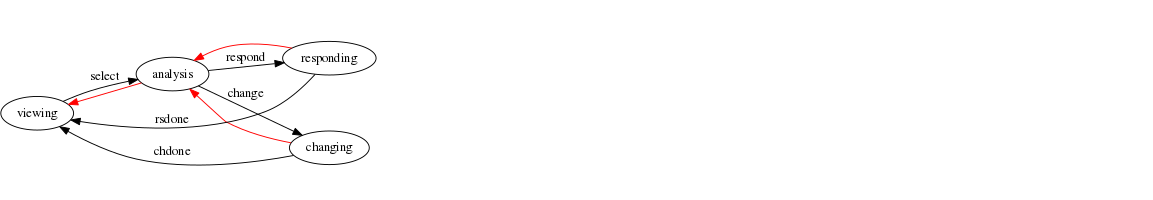
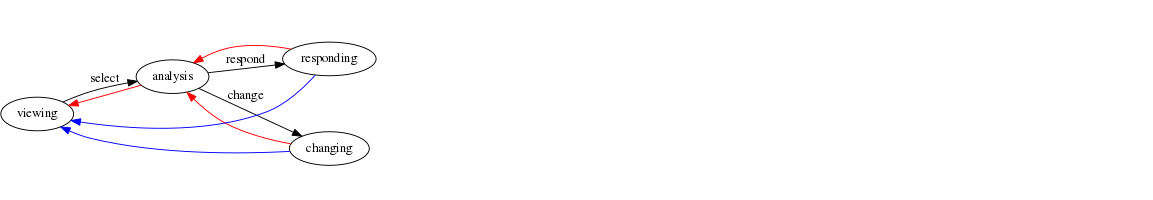
send respond with resume

diff --git a/www/prj/hh.html b/www/prj/hh.html
@@ -4332,12 +4332,6 @@ _xsrf=b2dccfd0ce2ff68b2c4f795ac6d549fb
 </tr>
 
 <tr>
-<td class="left">chdone</td>
-<td class="left">changing</td>
-<td class="left">viewing</td>
-</tr>
-
-<tr>
 <td class="left">respond</td>
 <td class="left">analysis</td>
 <td class="left">responding</td>
@@ -4350,8 +4344,14 @@ _xsrf=b2dccfd0ce2ff68b2c4f795ac6d549fb
 </tr>
 
 <tr>
-<td class="left">rsdone</td>
+<td class="left">done</td>
 <td class="left">responding</td>
+<td class="left">viewing</td>
+</tr>
+
+<tr>
+<td class="left">done</td>
+<td class="left">changing</td>
 <td class="left">viewing</td>
 </tr>
 </tbody>
@@ -4364,11 +4364,15 @@ _xsrf=b2dccfd0ce2ff68b2c4f795ac6d549fb
 <div class="org-src-container">
 
 <pre class="src src-emacs-lisp" id="iface_state_graph">(mapcar #'(lambda (x)
-            (<span style="color: #af00ff;">if</span> (equal (first x) <span style="color: #87005f;">"back"</span>)
-                (princ (format <span style="color: #87005f;">"%s -&gt; %s [label =\"%s\", color=\"red\"];\n"</span>
-                               (second x) (third x) <span style="color: #87005f;">""</span>))
-              (princ (format <span style="color: #87005f;">"%s -&gt; %s [label =\"%s\" ];\n"</span>
-                             (second x) (third x) (first x)))))
+            (<span style="color: #af00ff;">cond</span> ((equal (first x) <span style="color: #87005f;">"back"</span>)
+                   (princ (format <span style="color: #87005f;">"%s -&gt; %s [label =\"%s\", color=\"red\"];\n"</span>
+                                  (second x) (third x) <span style="color: #87005f;">""</span>)))
+                  ((equal (first x) <span style="color: #87005f;">"done"</span>)
+                   (princ (format <span style="color: #87005f;">"%s -&gt; %s [label =\"%s\", color=\"blue\"];\n"</span>
+                                  (second x) (third x) <span style="color: #87005f;">""</span>)))
+                  (t
+                   (princ (format <span style="color: #87005f;">"%s -&gt; %s [label =\"%s\" ];\n"</span>
+                                  (second x) (third x) (first x))))))
         table)
 </pre>
 </div>
@@ -4422,6 +4426,7 @@ _xsrf=b2dccfd0ce2ff68b2c4f795ac6d549fb
 (<span style="color: #af00ff;">defun</span> <span style="color: #0000ff;">viewing</span> ()
   (<span style="color: #af00ff;">tagbody</span>
    renew
+     (format t <span style="color: #87005f;">"________"</span>)
      (format t <span style="color: #87005f;">"~%Viewing:"</span>)
      (format t <span style="color: #87005f;">"~%[0] : Exit"</span>)
      (<span style="color: #af00ff;">let</span> ((acts (show-ten-vacs *W*)))
@@ -4469,6 +4474,7 @@ _xsrf=b2dccfd0ce2ff68b2c4f795ac6d549fb
                         (equal src-id
                                (getf (getf vac <span style="color: #5f5f87;">:vac</span>) <span style="color: #5f5f87;">:src-id</span>)))
                       *w*)))
+    (format t <span style="color: #87005f;">"__________________"</span>)
     (format t <span style="color: #87005f;">"~%ANALYSIS for vac # ~A~%~A"</span> src-id (bprint vac))
     (format t <span style="color: #87005f;">"~%Actions:~%[0] - Back to viewing~%[1] - Change domain~%[2] - Respond"</span>)
     (format t <span style="color: #87005f;">"~%Type your choise (0-2): "</span>)
@@ -4506,6 +4512,7 @@ _xsrf=b2dccfd0ce2ff68b2c4f795ac6d549fb
                         (equal src-id
                                (getf (getf vac <span style="color: #5f5f87;">:vac</span>) <span style="color: #5f5f87;">:src-id</span>)))
                       *w*)))
+    (format t <span style="color: #87005f;">"_________________________"</span>)
     (format t <span style="color: #87005f;">"~%CHANGING DOMAIN for vac # ~A~%~A"</span> src-id (bprint vac))
     (<span style="color: #af00ff;">let</span> ((dms (<span style="color: #af00ff;">let</span> ((acc 0))
                  (mapcar (<span style="color: #af00ff;">lambda</span> (x)
@@ -4535,8 +4542,6 @@ _xsrf=b2dccfd0ce2ff68b2c4f795ac6d549fb
                     (read-line)
                     (<span style="color: #af00ff;">return-from</span> changing 'done)))
                  (t (err <span style="color: #87005f;">"changing select action err"</span>))))))))
-
-<span style="color: #af0000;">;; </span><span style="color: #af0000;">(viewing)</span>
 </pre>
 </div>
 </div>
@@ -4560,6 +4565,42 @@ selectedResume=
 </pre>
 
 <p>
+Мы можем сделать это следующим функцией, которой нужно
+</p>
+<ul class="org-ul">
+<li>видеть динамическую переменную cookie-jar для обработки cookies
+</li>
+<li>передать функцию-продолжение для обработки ответа
+</li>
+</ul>
+
+<div class="org-src-container">
+
+<pre class="src src-lisp">(<span style="color: #af00ff;">defun</span> <span style="color: #0000ff;">get-resp-popup</span> (src-account src-id response-processor-fn)
+  (<span style="color: #af00ff;">let</span> ((referer    (format nil <span style="color: #87005f;">"https://spb.hh.ru/vacancy/~A"</span> src-id))
+        (popup-url  <span style="color: #87005f;">"https://spb.hh.ru/applicant/vacancy_response/popup?"</span>)
+        (get-params <span style="color: #87005f;">"vacancyId=~A&amp;autoOpen=no&amp;isTest=no&amp;withoutTest=no&amp;selectedResume="</span>))
+    (hh-get-page
+     referer cookie-jar src-account <span style="color: #87005f;">"https://spb.hh.ru"</span> #'stderr
+     (<span style="color: #af00ff;">lambda</span> (response new-cookie-jar url)
+       (setf cookie-jar new-cookie-jar)
+       (hh-get-page
+        (format nil (concatenate 'string popup-url get-params) src-id)
+        cookie-jar src-account referer #'stderr response-processor-fn)))))
+
+<span style="color: #af0000;">;; </span><span style="color: #af0000;">(let ((cookie-jar (make-instance 'drakma:cookie-jar))</span>
+<span style="color: #af0000;">;;       </span><span style="color: #af0000;">(src-id     24700517))</span>
+<span style="color: #af0000;">;;   </span><span style="color: #af0000;">(declare (special cookie-jar))</span>
+<span style="color: #af0000;">;;   </span><span style="color: #af0000;">(print</span>
+<span style="color: #af0000;">;;    </span><span style="color: #af0000;">(get-resp-popup</span>
+<span style="color: #af0000;">;;     </span><span style="color: #af0000;">*hh-account* src-id</span>
+<span style="color: #af0000;">;;     </span><span style="color: #af0000;">(lambda (response new-cookie-jar url)</span>
+<span style="color: #af0000;">;;       </span><span style="color: #af0000;">(setf cookie-jar new-cookie-jar)</span>
+<span style="color: #af0000;">;;       </span><span style="color: #af0000;">(print response)))))</span>
+</pre>
+</div>
+
+<p>
 Ответом на этот запрос приходит форма:
 </p>
 
@@ -4569,7 +4610,7 @@ selectedResume=
       <span style="color: #af5f00;">class</span>=<span style="color: #87005f;">"vacancy-response-popup HH-VacancyResponsePopup-Form HH-SubmitDisabler-Form"</span>&gt;
     &lt;<span style="color: #0000ff;">div</span> <span style="color: #af5f00;">class</span>=<span style="color: #87005f;">"bloko-modal-header bloko-modal-header_outlined"</span>&gt;
         &lt;<span style="color: #0000ff;">h2</span> <span style="color: #af5f00;">class</span>=<span style="color: #87005f;">"bloko-modal-title"</span>&gt;<span style="font-weight: bold; font-style: italic; text-decoration: underline;">&#1054;&#1090;&#1082;&#1083;&#1080;&#1082; &#1085;&#1072; &#1074;&#1072;&#1082;&#1072;&#1085;&#1089;&#1080;&#1102;</span>&lt;/<span style="color: #0000ff;">h2</span>&gt;
-        &lt;<span style="color: #0000ff;">div</span>&gt;&#171;&#1059;&#1087;&#1088;&#1072;&#1074;&#1083;&#1103;&#1102;&#1097;&#1080;&#1081; &#1089;&#1072;&#1083;&#1086;&#1085;&#1072; &#1084;&#1077;&#1073;&#1077;&#1083;&#1080;&#187;&lt;/<span style="color: #0000ff;">div</span>&gt;
+        &lt;<span style="color: #0000ff;">div</span>&gt;&#171;&#1053;&#1072;&#1079;&#1074;&#1072;&#1085;&#1080;&#1077; &#1074;&#1072;&#1082;&#1072;&#1085;&#1089;&#1080;&#1080;&#187;&lt;/<span style="color: #0000ff;">div</span>&gt;
     &lt;/<span style="color: #0000ff;">div</span>&gt;
     &lt;<span style="color: #0000ff;">div</span> <span style="color: #af5f00;">class</span>=<span style="color: #87005f;">"vacancy-response-popup-body"</span>&gt;
         &lt;<span style="color: #0000ff;">div</span> <span style="color: #af5f00;">class</span>=<span style="color: #87005f;">"bloko-form-row"</span>&gt;
@@ -4708,23 +4749,114 @@ selectedResume=
 </div>
 
 <p>
-Из этой формы мы можем извлечь много ценной информации:
+Из этой формы мы можем узнать, что:
 </p>
 <ul class="org-ul">
-<li>получить все резюме, с их видимостью
+<li>на накоторые резюме без прохождения теста не ответить
 </li>
-<li>выбрать одно из них для отклика
-</li>
-<li>на накоторые резюме без теста не ответить
-</li>
-<li>можно послать сопроводительное письмо не более чем на 10000 символов
+<li>можно послать сопроводительное письмо не более чем в 10000 символов
 </li>
 <li>откликнуться можно 200 раз за 24 часа (видимо были прецеденты)
 </li>
 </ul>
 
 <p>
-Когда я откликаюсь происходит следующее:
+И извлечь много ценной информации:
+</p>
+<ul class="org-ul">
+<li>получить все резюме, с их видимостью
+</li>
+<li>выбрать одно из них для отклика
+</li>
+</ul>
+
+<p>
+Итак, займемся разбором формы попапа:
+</p>
+
+<div class="org-src-container">
+
+<pre class="src src-lisp">&lt;&lt;popup_service&gt;&gt;
+
+(<span style="color: #af00ff;">defun</span> <span style="color: #0000ff;">popup-processor</span> (response new-cookie-jar url)
+  (setf cookie-jar new-cookie-jar)
+  (<span style="color: #af00ff;">let</span> ((resumes (-&gt;&gt; (html-to-tree response)
+                      (extract-popup-results)
+                      (maptreefilter)
+                      (cdr)))
+        (cumulative))
+    (mapcar #'(<span style="color: #af00ff;">lambda</span> (resume)
+                (<span style="color: #af00ff;">let</span> ((result))
+                  (<span style="color: #af00ff;">declare</span> (special result))
+                  (-&gt;&gt; (identity resume)
+                       (transform-popup-title)
+                       (transform-popup-value)
+                       (transform-popup-disabled)
+                       (transform-popup-visibility)
+                       (transform-popup-hint)
+                       (funcall (<span style="color: #af00ff;">lambda</span> (x)
+                                  (push (apply #'append (reverse result)) cumulative)
+                                  x))
+                       <span style="color: #af0000;">;; </span><span style="color: #af0000;">(print)</span>
+                       )))
+            resumes)
+    (reverse cumulative)))
+
+<span style="color: #af0000;">;; </span><span style="color: #af0000;">(let ((cookie-jar (make-instance 'drakma:cookie-jar))</span>
+<span style="color: #af0000;">;;       </span><span style="color: #af0000;">(src-id     24700517))</span>
+<span style="color: #af0000;">;;   </span><span style="color: #af0000;">(declare (special cookie-jar))</span>
+<span style="color: #af0000;">;;   </span><span style="color: #af0000;">(print</span>
+<span style="color: #af0000;">;;    </span><span style="color: #af0000;">(get-resp-popup *hh-account* src-id #'popup-processor)))</span>
+</pre>
+</div>
+
+<p>
+Для разбора формы нам потребуются вспомогательные экстракторы и трансформеры:
+</p>
+
+<div class="org-src-container">
+
+<pre class="src src-lisp" id="popup_service">(<span style="color: #af00ff;">defun</span> <span style="color: #0000ff;">extract-popup-results</span> (tree)
+  (<span style="color: #af00ff;">block</span> subtree-extract
+    (mtm (`(<span style="color: #87005f;">"div"</span>
+            ((<span style="color: #87005f;">"class"</span> <span style="color: #87005f;">"bloko-form-row"</span>))
+            ,@rest)
+           (<span style="color: #af00ff;">return-from</span> subtree-extract rest))
+         tree)))
+
+(make-transform (popup-value)
+  (`(<span style="color: #87005f;">"value"</span> ,value)
+    (<span style="color: #af00ff;">let</span> ((rv `(<span style="color: #5f5f87;">:value</span> ,value)))
+      (push rv result)
+      rv)))
+
+(make-transform (popup-disabled)
+  (`(<span style="color: #87005f;">"data-response-disabled"</span> ,disabled)
+    (<span style="color: #af00ff;">let</span> ((rv `(<span style="color: #5f5f87;">:disabled</span> ,disabled)))
+      (push rv result)
+      rv)))
+
+(make-transform (popup-title)
+  (`(<span style="color: #87005f;">"resume-title"</span> NIL ,title)
+    (<span style="color: #af00ff;">let</span> ((rv `(<span style="color: #5f5f87;">:title</span> ,title)))
+      (push rv result)
+      rv)))
+
+(make-transform (popup-visibility)
+  (`(<span style="color: #87005f;">"a"</span> ((<span style="color: #87005f;">"href"</span> ,_)) ,_)
+    <span style="color: #87005f;">"&#1053;&#1072;&#1089;&#1090;&#1088;&#1086;&#1080;&#1090;&#1100; &#1074;&#1080;&#1076;&#1080;&#1084;&#1086;&#1089;&#1090;&#1100;"</span>))
+
+(make-transform (popup-hint)
+  (`(<span style="color: #87005f;">"bloko-form-hint"</span> NIL ,@hint)
+    (<span style="color: #af00ff;">let</span> ((rv `(<span style="color: #5f5f87;">:hint</span> ,(format nil <span style="color: #87005f;">"~{~A~}"</span> hint))))
+      (push rv result)
+      rv)))
+</pre>
+</div>
+
+<p>
+Когда пользователь выбирает в попапе одно из резюме и нажимает кнопку "Откликнуться"
+происходит следующее:
 </p>
 
 <p>
@@ -4741,12 +4873,48 @@ ignore_postponed=true
 </pre>
 
 <p>
-В ответ на который возвращается json вида:
+В ответ на такой POST-запрос в случае успеха возвращается json вида:
 </p>
 
 <div class="org-src-container">
 
 <pre class="src src-js">{<span style="color: #87005f;">"success"</span>: <span style="color: #87005f;">"true"</span>, <span style="color: #87005f;">"topic_id"</span>: <span style="color: #87005f;">"1100154346"</span>}
+</pre>
+</div>
+
+<p>
+Научимся отправлять такой запрос:
+</p>
+
+<div class="org-src-container">
+
+<pre class="src src-lisp">(<span style="color: #af00ff;">let</span> ((cookie-jar (make-instance 'drakma:cookie-jar))
+      (src-id     23447245))
+  (<span style="color: #af00ff;">declare</span> (special cookie-jar))
+  (<span style="color: #af00ff;">let</span> ((resumes (get-resp-popup *hh-account* src-id #'popup-processor)))
+    <span style="color: #af0000;">;; </span><span style="color: #af0000;">(show-resume-list)</span>
+    <span style="color: #af0000;">;; </span><span style="color: #af0000;">(select-resume)</span>
+    (<span style="color: #af00ff;">let</span> ((referer     (format nil <span style="color: #87005f;">"https://spb.hh.ru/vacancy/~A"</span> src-id))
+          (resume-hash <span style="color: #87005f;">"23614635ff05277e2a0039ed1f61305a413033"</span>))
+      (<span style="color: #af00ff;">with-cookie-alist</span> (cookie-jar)
+        (<span style="color: #af00ff;">with-post-response</span>
+            ((format nil <span style="color: #87005f;">"https://spb.hh.ru/applicant/vacancy_response/popup?vacancy_id=~A"</span> src-id)
+             cookie-jar cookie-alist
+             (append
+              `((<span style="color: #87005f;">"resume_hash"</span>      . ,resume-hash)
+                (<span style="color: #87005f;">"letter"</span>           . <span style="color: #87005f;">""</span>))
+              `((<span style="color: #87005f;">"_xsrf"</span>            . ,(cdr (assoc <span style="color: #87005f;">"_xsrf"</span> cookie-alist <span style="color: #5f5f87;">:test</span> #'equal))))
+              `((<span style="color: #87005f;">"ignore_postponed"</span> . <span style="color: #87005f;">"true"</span>))))
+          (<span style="color: #af00ff;">let</span> ((response (json:decode-json-from-string
+                           (car
+                            (html-to-tree
+                             (flexi-streams:octets-to-string body-or-stream
+                                                             <span style="color: #5f5f87;">:external-format</span> <span style="color: #5f5f87;">:utf-8</span>))))))
+            (<span style="color: #af00ff;">cond</span> ((equal <span style="color: #87005f;">"true"</span> (cdr (assoc <span style="color: #5f5f87;">:success</span> response)))
+                   (cdr (assoc <span style="color: #5f5f87;">:topic--id</span> response)))
+                  ((equal <span style="color: #87005f;">"unknown"</span> (cdr (assoc <span style="color: #5f5f87;">:error</span> response)))
+                   (err <span style="color: #87005f;">"response error (double respond)"</span>))
+                  (t (err <span style="color: #87005f;">"response error (wtf)"</span>)))))))))
 </pre>
 </div>
 </div>
